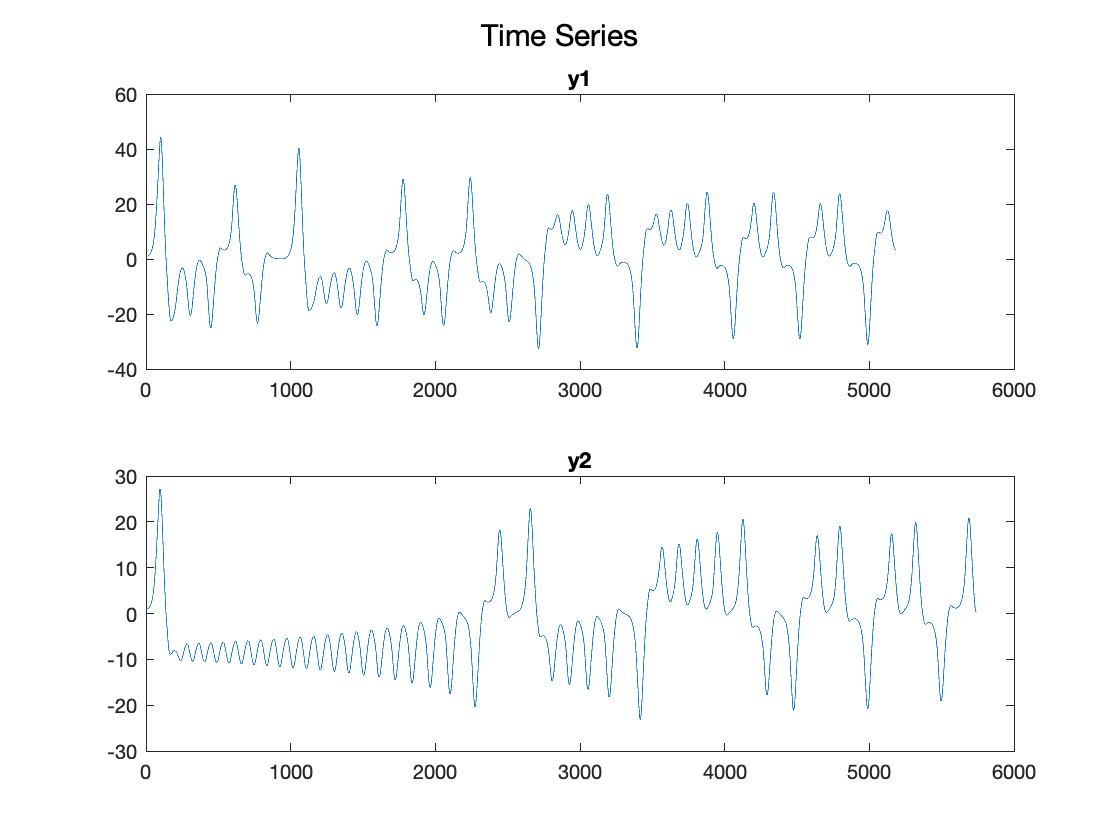
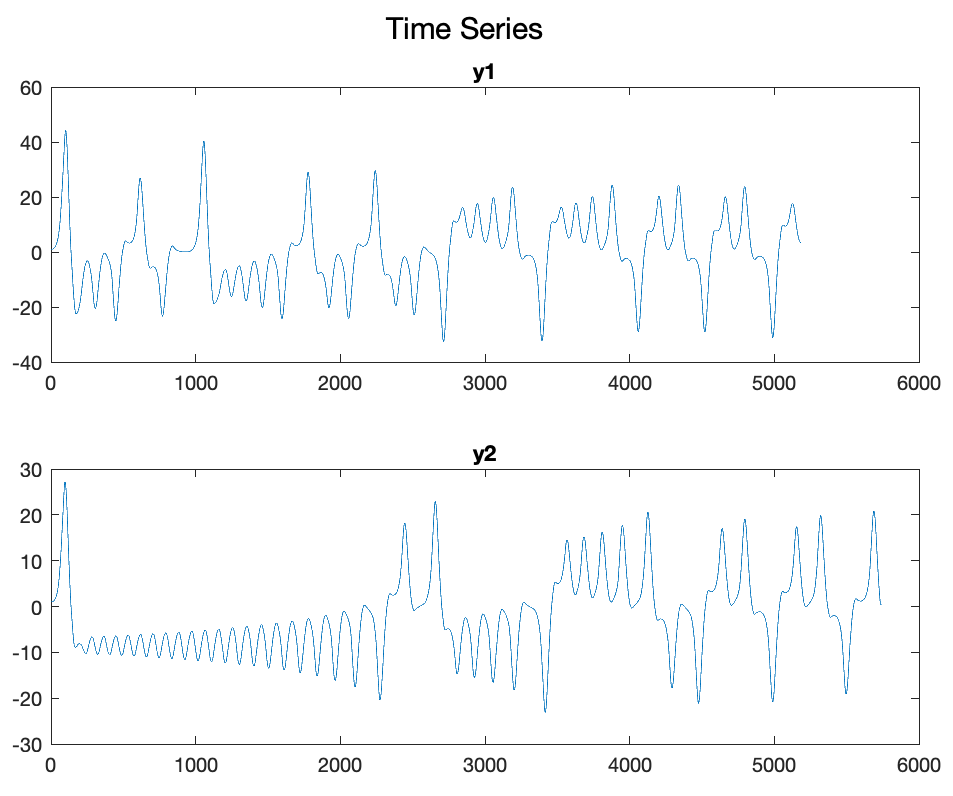
Resized plot

diff --git a/README.md b/README.md
@@ -50,4 +50,6 @@ denmd.set_timeseries(2, y2, 'name', 'y2');
 % Visualize the time-series from within the object
 denmd.visualize_time_series();
 ```
-<img src="https://github.com/ParhamP/DENMD/blob/main/assets/vis_time_series.png?raw=true" width="450" height="450">
+<p align="center">
+<img src="https://github.com/ParhamP/DENMD/blob/main/assets/vis_time_series.png?raw=true" width="477" height="398">
+</p>
